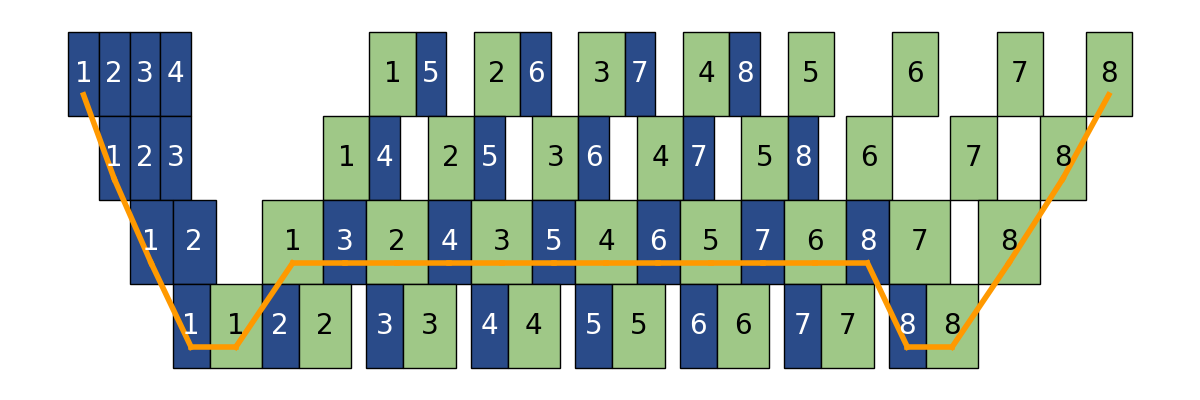
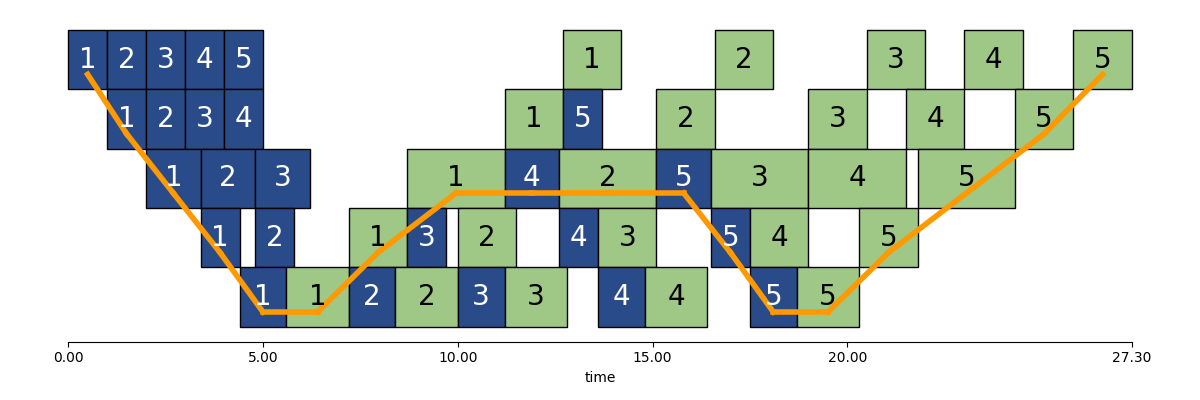
Feat: Draw time axis with total time

diff --git a/rene/visualizer.py b/rene/visualizer.py
@@ -3,7 +3,7 @@ from __future__ import annotations
 from typing import Any
 
 from matplotlib.axes import Axes
-from matplotlib.patches import Rectangle
+from matplotlib.ticker import FormatStrFormatter
 
 from rene.instruction import InstructionType, Forward, Backward
 from rene.dag import InstructionDAG
@@ -47,13 +47,27 @@ class PipelineVisualizer:
         self.annotation_args = annotation_args
         self.line_args = line_args
 
-    def draw(self, ax: Axes) -> None:
+    def draw(self, ax: Axes, draw_time_axis: bool = False) -> None:
         """Draw the pipeline on the given Axes object."""
         for inst in self.dag.insts:
             # Draw rectangle for Instructions
             inst.draw(ax, self.rectangle_args, self.annotation_args)
 
-        ax.set_axis_off()
+        if draw_time_axis:
+            ax.yaxis.set_visible(False)
+            ax.grid(visible=False)
+
+            total_time = self.dag.total_execution_time
+            ax.set_xlabel("time")
+            ax.xaxis.set_major_formatter(FormatStrFormatter('%.2f'))
+            ax.set_xticks([float(t * 5) for t in range(int(total_time) // 5)] + [total_time])
+
+            for side in ["top", "left", "right"]:
+                ax.spines[side].set_visible(False)
+            ax.spines["bottom"].set_bounds(0.0, total_time)
+        else:
+            ax.set_axis_off()
+
         ax.autoscale()
         ax.invert_yaxis()
 

diff --git a/examples/draw_1f1b_with_critical_path.py b/examples/draw_1f1b_with_critical_path.py
@@ -6,9 +6,9 @@ from rene import InstructionDAG, Synchronous1F1B, Forward, Backward, PipelineVis
 # Instantiate the Instruction DAG.
 dag = InstructionDAG(
     schedule_type=Synchronous1F1B,
-    num_stages=4,
-    num_micro_batches=8,
-    durations={Forward: [1.0, 1.0, 1.4, 1.2], Backward: [1.5, 1.5, 2.0, 1.7]},
+    num_stages=5,
+    num_micro_batches=5,
+    durations={Forward: [1.0, 1.0, 1.4, 1.0, 1.2], Backward: [1.5, 1.5, 2.5, 1.5, 1.6]},
 )
 # Schedule instructions with the "eager" scheduling algorithm.
 # Refer to the docstring for available scheduling algorithms.
@@ -20,6 +20,6 @@ vis = PipelineVisualizer(dag)
 
 # Instantitate a matplotlib subplot and draw the pipeline and critical path.
 fig, ax = plt.subplots(figsize=(12, 4), tight_layout=True)
-vis.draw(ax)
+vis.draw(ax, draw_time_axis=True)
 vis.draw_critical_path(ax)
 fig.savefig("pipeline.png")
